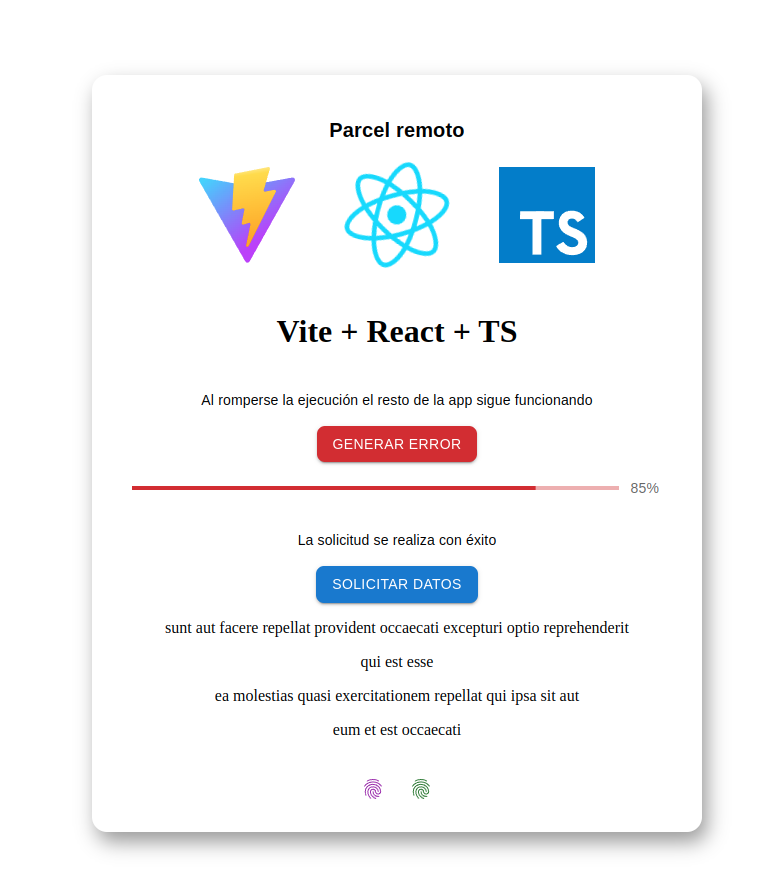
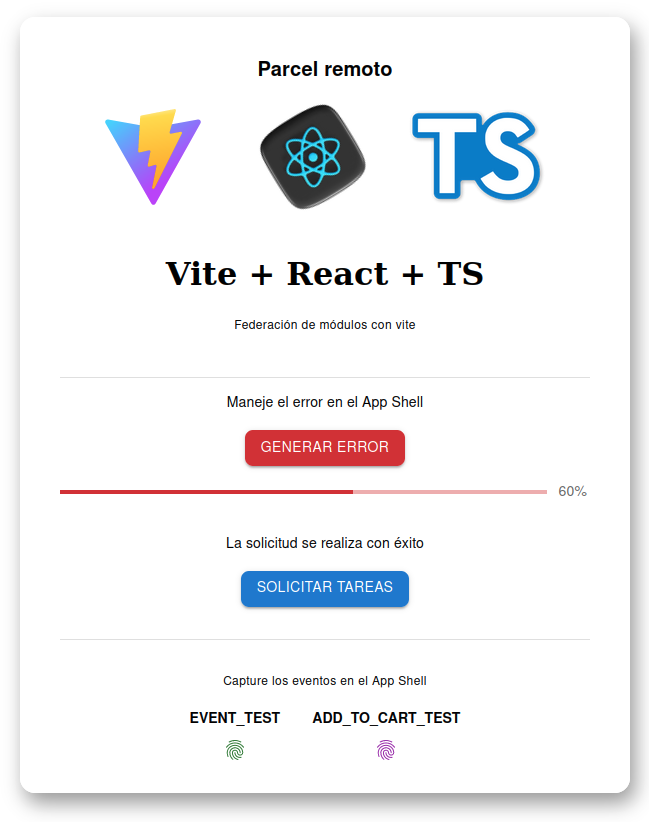
Cambio visual de la tarjeta

diff --git a/src/components/Todos/index.tsx b/src/components/Todos/index.tsx
@@ -1,14 +1,23 @@
-// src/RemoteComponent.js
-
-import { Box, Button, Stack, Typography } from "@mui/material";
 import { useState } from "react";
+import {
+  Box,
+  Button,
+  Divider,
+  List,
+  ListItem,
+  ListItemText,
+  Stack,
+  Typography,
+} from "@mui/material";
+import IconButton from "@mui/material/IconButton";
+import CommentIcon from "@mui/icons-material/Comment";
 import Loading from "../Loading/Loading";
 import { TodoResponse } from "./interface";
 
 export default () => {
   const [isLoading, setIsLoading] = useState(false);
   const [isErrorFetching, setIsErrorFetching] = useState(false);
-  const [data, setData] = useState<Array<TodoResponse>>([]);
+  const [todos, setTodos] = useState<Array<TodoResponse>>([]);
   const [dataError, setDataError] = useState<Array<TodoResponse>>([]);
 
   const handleClickError = async () => {
@@ -32,16 +41,17 @@ export default () => {
         "https://jsonplaceholder.typicode.com/posts?_limit=4"
       ).then((response) => response.json());
 
-      setData(data);
+      setTodos(data);
       setIsLoading(false);
     }, 3000);
   };
 
   return (
     <Box mx={5} mt={5}>
+      <Divider />
       <Stack direction="column" spacing={2} alignItems="center">
-        <Typography variant="body2">
-          Al romperse la ejecución el resto de la app sigue funcionando
+        <Typography mt={2} variant="body2">
+          Maneje el error en el App Shell
         </Typography>
 
         <Button
@@ -69,17 +79,42 @@ export default () => {
           color="primary"
           onClick={handleClickSuccess}
         >
-          Solicitar datos
+          Solicitar tareas
         </Button>
 
         {isLoading && <Loading />}
 
-        {data?.map((elem: TodoResponse, index: number) => (
-          <div key={index}>{elem.title}</div>
-        ))}
+        <Box>
+          <List
+            sx={{ width: "100%", maxWidth: 360, bgcolor: "background.paper" }}
+          >
+            {todos?.map((todo: TodoResponse, index: number) => (
+              <ListItem
+                key={todo.id + index}
+                disableGutters
+                secondaryAction={
+                  <IconButton aria-label="comment">
+                    <CommentIcon />
+                  </IconButton>
+                }
+              >
+                <ListItemText primary={` ${todo.title}`} />
+              </ListItem>
+            ))}
+          </List>
+          {todos.length > 0 && (
+            <Button
+              sx={{ mt: 2, mb: 5 }}
+              variant="contained"
+              color="secondary"
+              onClick={() => setTodos([])}
+            >
+              Limpiar tareas cargadas
+            </Button>
+          )}
+        </Box>
       </Stack>
+      <Divider />
     </Box>
   );
 };
-
-// export default TestComponent;

diff --git a/src/components/CustomButton/index.tsx b/src/components/CustomButton/index.tsx
@@ -1,18 +1,60 @@
-import Stack from "@mui/material/Stack";
-import IconButton from "@mui/material/IconButton";
 import Fingerprint from "@mui/icons-material/Fingerprint";
+import { Box, Typography } from "@mui/material";
+import IconButton from "@mui/material/IconButton";
 
 export default () => {
+  const handleTestEvent = () => {
+    window.dispatchEvent(
+      new CustomEvent("EVENT_TEST", { detail: { info: "Info test event..." } })
+    );
+  };
+
+  const handleAddToCart = () => {
+    window.dispatchEvent(
+      new CustomEvent("ADD_TO_CART_TEST", {
+        detail: {
+          title: "Product 1",
+          description: "This is a product test",
+          price: 80.9,
+          date: new Date("2014-07-02"),
+        },
+      })
+    );
+  };
+
   return (
-    <div>
-      <Stack direction="row" spacing={1} p={2}>
-        <IconButton aria-label="fingerprint" color="secondary">
-          <Fingerprint />
-        </IconButton>
-        <IconButton aria-label="fingerprint" color="success">
-          <Fingerprint />
-        </IconButton>
-      </Stack>
-    </div>
+    <Box p={2}>
+      <Typography variant="caption">
+        Capture los eventos en el App Shell
+      </Typography>
+
+      <Box sx={{ display: "flex", flexWrap: "wrap", gap: 4 }}>
+        <Box mx="auto">
+          <Typography variant="subtitle2" sx={{ fontWeight: "bold" }} mt={2}>
+            EVENT_TEST
+          </Typography>
+          <IconButton
+            aria-label="fingerprint"
+            color="success"
+            onClick={handleTestEvent}
+          >
+            <Fingerprint />
+          </IconButton>
+        </Box>
+
+        <Box mx="auto">
+          <Typography variant="subtitle2" sx={{ fontWeight: "bold" }} mt={2}>
+            ADD_TO_CART_TEST
+          </Typography>
+          <IconButton
+            aria-label="fingerprint"
+            color="secondary"
+            onClick={handleAddToCart}
+          >
+            <Fingerprint />
+          </IconButton>
+        </Box>
+      </Box>
+    </Box>
   );
 };

diff --git a/src/components/Title/index.tsx b/src/components/Title/index.tsx
@@ -1,4 +1,4 @@
-import { Box } from "@mui/material";
+import { Box, Typography } from "@mui/material";
 import viteLogo from "/vite.svg";
 import "./Title.css";
 
@@ -25,6 +25,7 @@ export default () => {
         </a>
       </div>
       <h1>Vite + React + TS</h1>
+      <Typography variant="caption">Federación de módulos con vite</Typography>
     </Box>
   );
 };

diff --git a/src/pages/ParcelTest/index.tsx b/src/pages/ParcelTest/index.tsx
@@ -6,7 +6,12 @@ import Title from "../../components/Title";
 
 export default () => {
   return (
-    <CardContainer title="Parcel remoto" justifyTarget="space-around" mb={5}>
+    <CardContainer
+      title="Parcel remoto"
+      justifyTarget="space-around"
+      mt={-4}
+      mb={5}
+    >
       <Box textAlign="center">
         <Title />
 

diff --git a/vite.config.ts b/vite.config.ts
@@ -4,6 +4,7 @@ import react from "@vitejs/plugin-react";
 import federation from "@originjs/vite-plugin-federation";
 
 export default defineConfig({
+  base: "./",
   plugins: [
     react(),
     federation({

diff --git a/Readme.md b/Readme.md
@@ -64,6 +64,18 @@
 
 ---
 
+<br/>
+
+<p align="center" style="color: blue; margin-top: 4rem" >
+ Tareas solicitadas
+</p>
+
+<p align="center" style="margin-top: 3rem">
+    <img alt="App" src="./images/tareas.png" width="600px"/>
+</p>
+
+---
+
 <div align="center" style=" margin-top: 4rem; padding: 2rem; boxShadow: 2px 3px 4px 0px rgba(0,0,0,0.4)" width="50%" >
     <p style="color: blue; textAlign: justify">
         ¿Como funciona?
